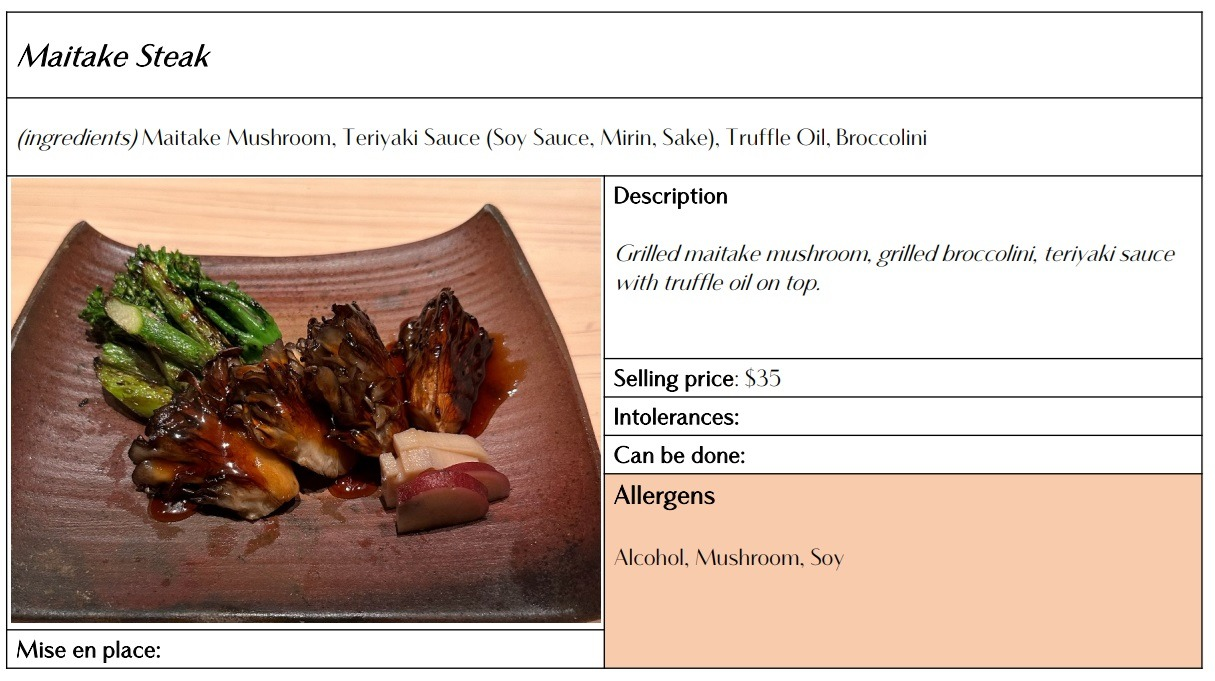
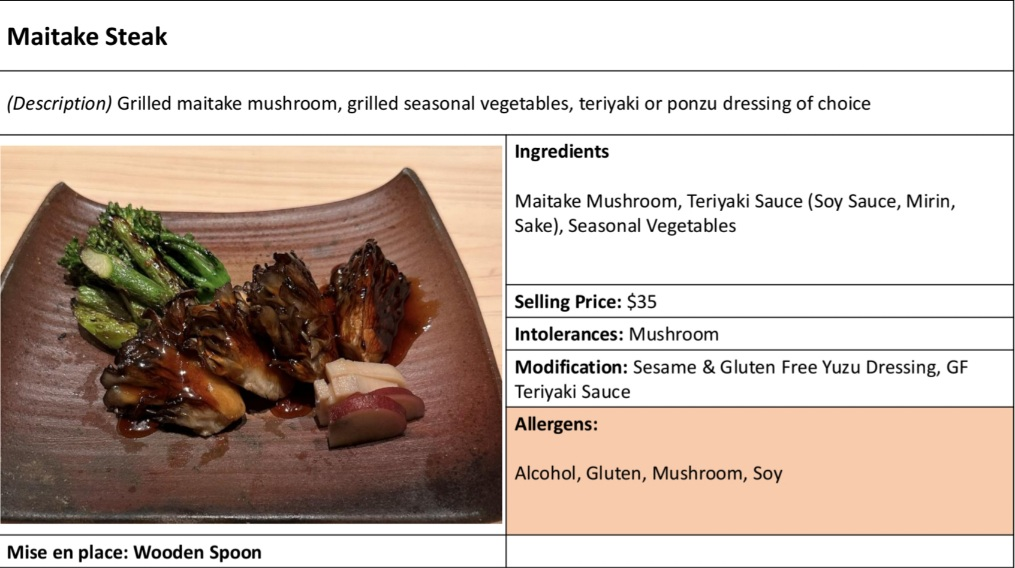
update spring menu items

Changed region(s): [[0.0, 0.0, 1.0, 1.0]]

diff --git a/mains.html b/mains.html
@@ -750,11 +750,10 @@
     <figcaption>
         <b>Maitake Sumibi Yaki</b><span class="price">35</span><br>
             Grilled Maitake Mushrooms<br>
+            Grilled Seasonal Vegetables
             Teriyaki Sauce<br>
             OR<br>
             Ponzu<br>
-            Truffle Oil???<br>
-            Grilled Seasonal Vegetables
     </figcaption>
   </figure>
 </div>
